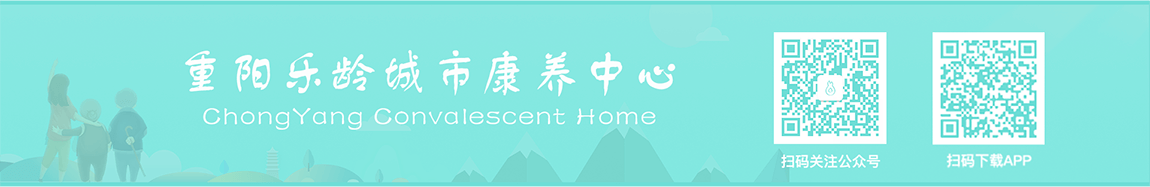
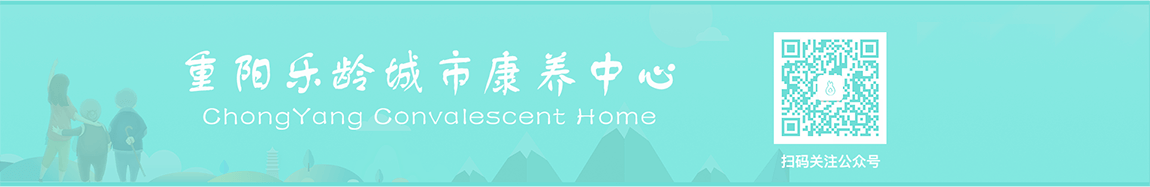
update

Changed region(s): [[0.7913, 0.1604, 0.913, 0.7754], [0.8217, 0.8021, 0.913, 0.9091]]

diff --git a/src/static-mobile/categories/styles.scss b/src/static-mobile/categories/styles.scss
@@ -30,10 +30,12 @@
   }
 
   @include pb(oa-qrcode) {
-    left: px2rem(206px / 1.44 - 20px);
+    left: 50%;
+    margin-left: px2rem(-224px / 1.44 / 2 - 40px / 2);
   }
 
   @include pb(app-qrcode) {
+    display: none;
     right: px2rem(206px / 1.44 - 20px);
   }
 }

diff --git a/src/static-mobile/home/styles.scss b/src/static-mobile/home/styles.scss
@@ -30,10 +30,12 @@
   }
 
   @include pb(oa-qrcode) {
-    left: px2rem(206px / 1.44 - 20px);
+    left: 50%;
+    margin-left: px2rem(-224px / 1.44 / 2 - 40px / 2);
   }
 
   @include pb(app-qrcode) {
+    display: none;
     right: px2rem(206px / 1.44 - 20px);
   }
 }
